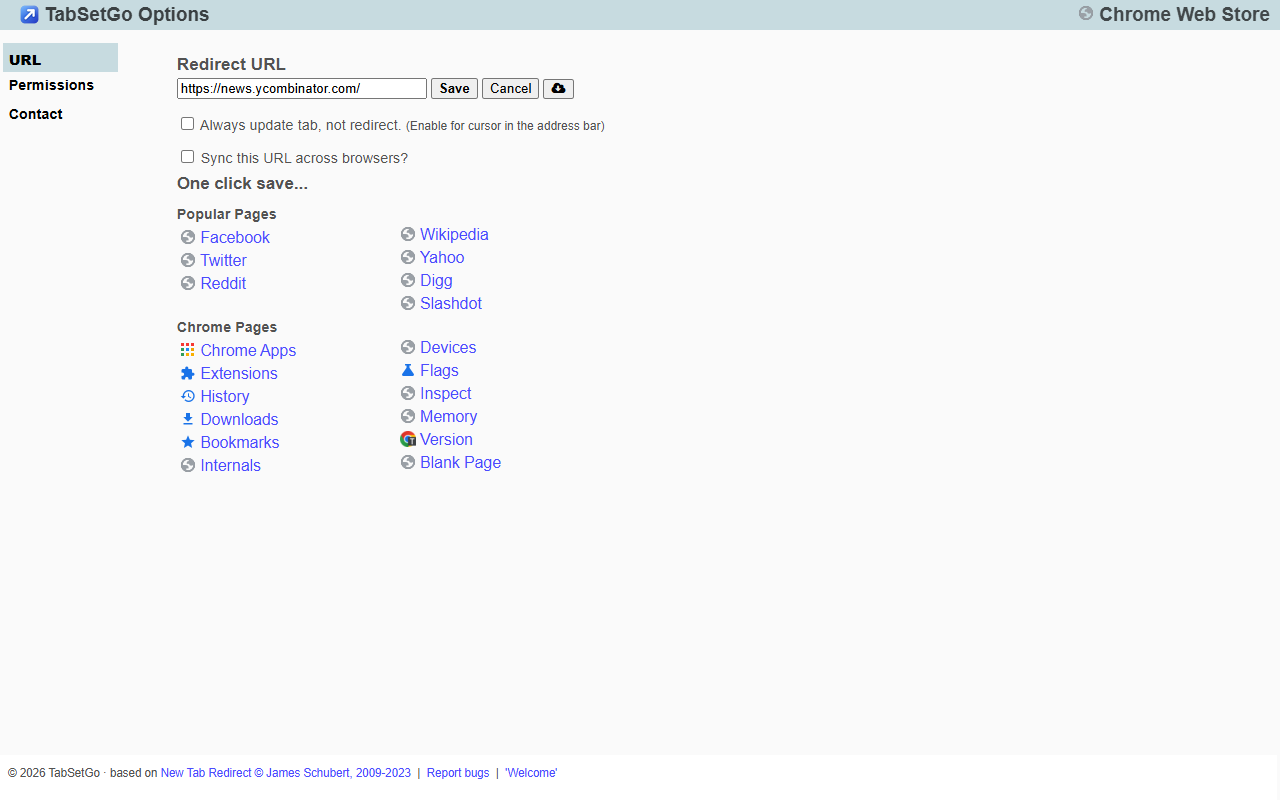
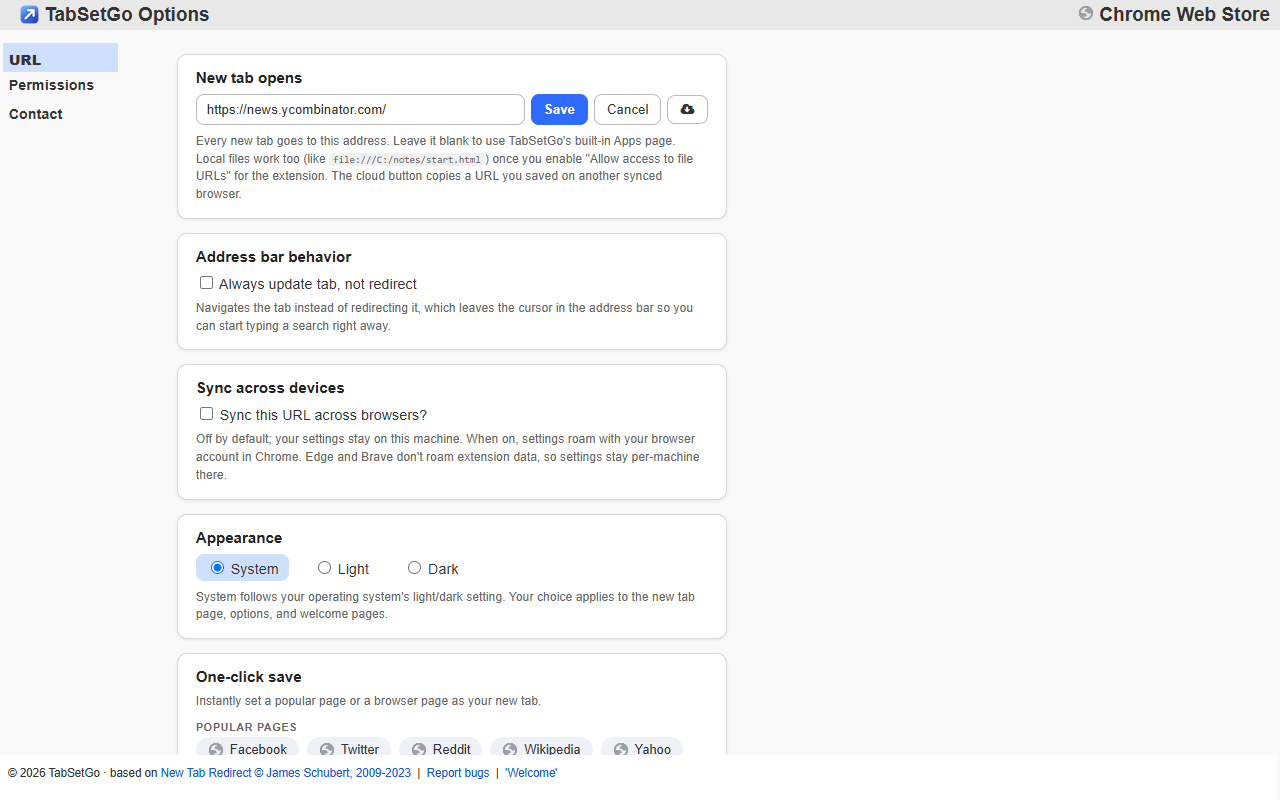
Modernize options into descriptive setting cards (#8)
The URL tab becomes five labeled cards - New tab opens, Address bar
behavior, Sync across devices, Appearance, One-click save - each with
plain-language helper text explaining what the setting actually does
(blank URL = Apps page, file:/// support, the tab-update cursor trick,
the sync opt-in with the Edge/Brave no-roam caveat). Quick saves are
now chips; Permissions and Contact tabs get the card treatment; dead
.column2 rules removed.

All e2e selectors preserved by design: suite 16/16 unmodified.

Changed region(s): [[0.0, 0.0, 1.0, 0.625], [0.125, 0.8438, 0.4375, 0.9688], [0.1562, 0.6562, 0.5312, 0.7812]]

diff --git a/options.html b/options.html
@@ -28,21 +28,42 @@
             </ul>
             <div class="target">
                 <div ng-show="selected=='url'">
-                    <h2>Redirect URL</h2>
-                    <input name="url" type="search" ng-model="url" placeholder="Default: TabSetGo 'Apps' Page" style="min-width:250px;" />
-                    <button style="font-weight:bold" title="Save" ng-click="save()">Save</button>
-                    <button title="Cancel" ng-click="cancel()">Cancel</button>
-                    <button title="One-time get Synced URL" ng-click="getSyncedUrl()" class="fa fa-cloud-download"></button>
-                    <p>
+                    <div class="setting-card">
+                        <h3>New tab opens</h3>
+                        <div class="url-row">
+                            <input name="url" type="search" ng-model="url" placeholder="Default: TabSetGo 'Apps' Page" />
+                            <button title="Save" ng-click="save()">Save</button>
+                            <button title="Cancel" ng-click="cancel()">Cancel</button>
+                            <button title="One-time get Synced URL" ng-click="getSyncedUrl()" class="fa fa-cloud-download"></button>
+                        </div>
+                        <p class="hint">
+                            Every new tab goes to this address. Leave it blank to use TabSetGo's built-in Apps page.
+                            Local files work too (like <code>file:///C:/notes/start.html</code>) once you enable
+                            "Allow access to file URLs" for the extension. The cloud button copies a URL you
+                            saved on another synced browser.
+                        </p>
+                    </div>
+                    <div class="setting-card">
+                        <h3>Address bar behavior</h3>
                         <label>
-                            <input type="checkbox" ng-model="alwaysTabUpdate" ng-change="changeRedirect(alwaysTabUpdate)"> Always update tab, not redirect. <small>(Enable for cursor in the address bar)</small>
+                            <input type="checkbox" ng-model="alwaysTabUpdate" ng-change="changeRedirect(alwaysTabUpdate)"> Always update tab, not redirect
                         </label>
-                    </p>
-                    <p>
+                        <p class="hint">
+                            Navigates the tab instead of redirecting it, which leaves the cursor in the
+                            address bar so you can start typing a search right away.
+                        </p>
+                    </div>
+                    <div class="setting-card">
+                        <h3>Sync across devices</h3>
                         <label>
                             <input type="checkbox" ng-model="sync" ng-change="changeSync(sync)"> Sync this URL across browsers?
                         </label>
-                    </p>
+                        <p class="hint">
+                            Off by default; your settings stay on this machine. When on, settings roam with
+                            your browser account in Chrome. Edge and Brave don't roam extension data, so
+                            settings stay per-machine there.
+                        </p>
+                    </div>
                     <div class="setting-card">
                         <h3>Appearance</h3>
                         <div class="segmented" role="radiogroup" aria-label="Theme">
@@ -52,18 +73,19 @@
                         </div>
                         <p class="hint">System follows your operating system's light/dark setting. Your choice applies to the new tab page, options, and welcome pages.</p>
                     </div>
-                    <h3>One click save...</h3>
-                    <div class="column2">
+                    <div class="setting-card">
+                        <h3>One-click save</h3>
+                        <p class="hint">Instantly set a popular page or a browser page as your new tab.</p>
                         <h4>Popular Pages</h4>
-                        <div ng-repeat="page in popular">
-                            <a href="{{page.location}}" class="bookmark" style="font-size:1.1em" ng-click="quickSave(page.location, $event)">
+                        <div class="chip-grid">
+                            <a href="{{page.location}}" class="chip" ng-repeat="page in popular" ng-click="quickSave(page.location, $event)">
                                 <i class="fa" style="background:url('_favicon/?pageUrl={{page.location}}') no-repeat"></i>
                                 <span ng-bind="page.name"></span>
                             </a>
                         </div>
-                        <h4>Chrome Pages</h4>
-                        <div ng-repeat="page in internal">
-                            <a href="{{page.location}}" class="bookmark" style="font-size:1.1em" ng-click="quickSave(page.location, $event)">
+                        <h4>Browser Pages</h4>
+                        <div class="chip-grid">
+                            <a href="{{page.location}}" class="chip" ng-repeat="page in internal" ng-click="quickSave(page.location, $event)">
                                 <i class="fa" style="background:url('_favicon/?pageUrl={{page.location}}') no-repeat"></i>
                                 <span ng-bind="page.name"></span>
                             </a>
@@ -72,6 +94,7 @@
                 </div>
                 <div ng-show="selected=='permissions'">
                     <h2>Permissions</h2>
+                    <div class="setting-card">
                     <p>
                         For information regarding what these permissions mean, please research:
                     </p>
@@ -101,6 +124,8 @@
                             <span ng-bind="perm" style="width:90px;display:inline-block;"></span> <button ng-click="grant(perm)" ng-disabled="permissions[perm]">Approve</button> <button ng-click="deny(perm)" ng-disabled="!permissions[perm]">Deny</button>
                         </li>
                     </ul>
+                    </div>
+                    <div class="setting-card">
                     <h3>Where these are used</h3>
                     <p>
                         The <em>required permissions</em> are used mostly by the options page.
@@ -140,8 +165,10 @@
                             Again, an all-or-nothing permission. The 'Apps' page can display between 5 and 40 bookmarks from your bookmarks bar. There's no modification going on. See the <a href="http://developer.chrome.com/extensions/bookmarks" title="bookmarks summary" target="_blank">development documents</a> for more.
                         </dd>
                     </dl>
+                    </div>
                 </div>
                 <div ng-show="selected=='contact'">
+                    <div class="setting-card">
 
                     <h2><span class="github-icon">Bugs or Features</span></h2>
 
@@ -158,6 +185,7 @@
                         Feel free to fork the code and contribute.
                     </p>
 
+                    </div>
                 </div>
             </div>
             <span class="clear"></span>

diff --git a/css/options.css b/css/options.css
@@ -74,15 +74,6 @@ ul.options-tabs li:not(.selected) a:hover {
     font-weight: 800;
 }
 
-.column2 {
-    -webkit-column-count: 2;
-    -webkit-column-gap: 12px;
-}
-
-.column2 h4 {
-    -webkit-column-span: all;
-}
-
 h3 { margin: 8px 0; }
 h4 { margin: 4px 0; }
 
@@ -135,4 +126,131 @@ h4 { margin: 4px 0; }
        display:none !important;
     }
 
+}
+
+/* ---- modern refresh (cards, hints, chips, segmented control) ---- */
+
+.setting-card {
+    background: var(--surface);
+    border: 1px solid var(--border);
+    border-radius: 10px;
+    padding: 14px 18px 12px;
+    margin: 14px 0;
+    box-shadow: 0 1px 3px var(--card-shadow);
+}
+
+.setting-card h3 {
+    margin: 0 0 8px;
+    color: var(--heading);
+    font-size: 1.05em;
+}
+
+.setting-card h4 {
+    margin: 10px 0 4px;
+    color: var(--text-muted);
+    text-transform: uppercase;
+    font-size: 0.75em;
+    letter-spacing: 0.06em;
+}
+
+.hint {
+    color: var(--text-muted);
+    font-size: 0.85em;
+    line-height: 1.45;
+    margin: 8px 0 2px;
+}
+
+.hint code {
+    background: var(--code-bg);
+    padding: 1px 4px;
+    border-radius: 4px;
+}
+
+.url-row {
+    display: flex;
+    gap: 6px;
+    align-items: center;
+}
+
+.url-row input[name="url"] {
+    flex: 1;
+    min-width: 0;
+}
+
+.options-container input[type="search"] {
+    background: var(--input-bg);
+    color: var(--text);
+    border: 1px solid var(--input-border);
+    border-radius: 8px;
+    padding: 7px 10px;
+    outline: none;
+}
+
+.options-container input[type="search"]:focus {
+    border-color: var(--accent);
+}
+
+.options-container button {
+    background: var(--surface);
+    color: var(--text);
+    border: 1px solid var(--input-border);
+    border-radius: 8px;
+    padding: 7px 12px;
+    cursor: pointer;
+}
+
+.options-container button:hover {
+    border-color: var(--accent);
+}
+
+.options-container button[title="Save"] {
+    background: var(--accent);
+    color: var(--accent-contrast);
+    border-color: var(--accent);
+    font-weight: 600;
+}
+
+.segmented {
+    display: inline-flex;
+    gap: 14px;
+    align-items: center;
+}
+
+.segmented label {
+    cursor: pointer;
+    padding: 4px 10px;
+    border-radius: 8px;
+}
+
+.segmented label:has(input:checked) {
+    background: var(--selected-bg);
+}
+
+.chip-grid {
+    display: flex;
+    flex-wrap: wrap;
+    gap: 8px;
+    margin-top: 4px;
+}
+
+a.chip {
+    display: inline-flex;
+    align-items: center;
+    gap: 6px;
+    background: var(--chip-bg);
+    color: var(--text);
+    border-radius: 999px;
+    padding: 5px 12px;
+    font-size: 0.9em;
+    text-decoration: none;
+}
+
+a.chip:hover {
+    background: var(--chip-hover);
+    text-decoration: none;
+}
+
+a.chip i.fa {
+    width: 16px;
+    height: 16px;
 }
